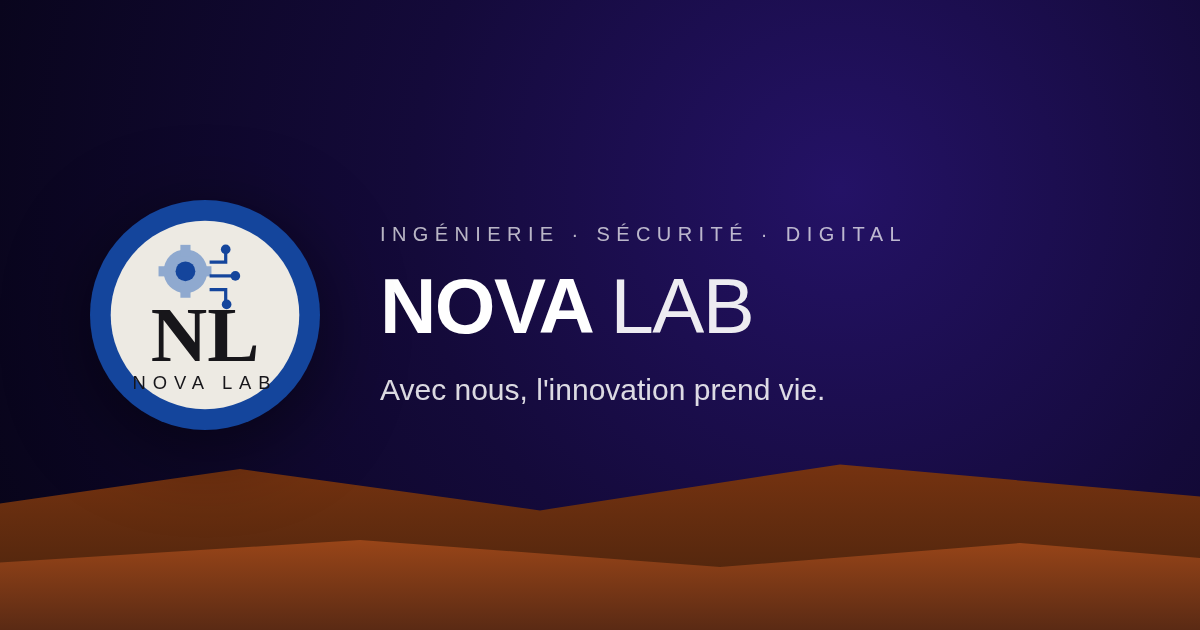
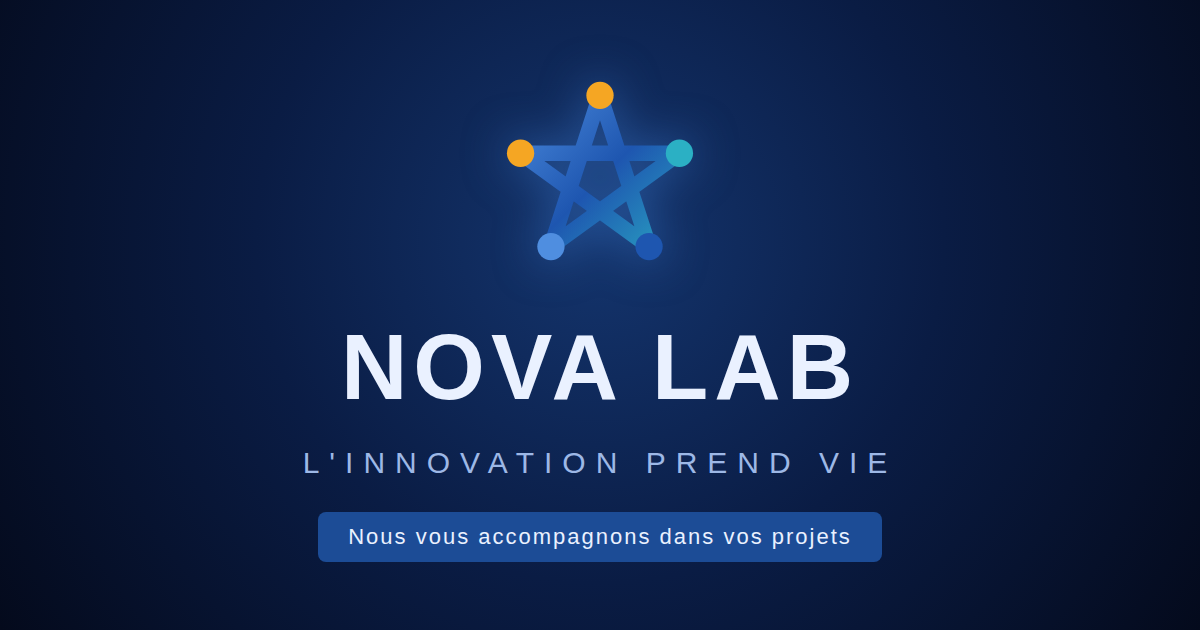
design: image d'apercu de lien (og:image) aux nouvelles couleurs + balises OG/Twitter
Claude-Session: https://claude.ai/code/session_018ATu5ZqXZjA13HDbdHN8jm

diff --git a/public/index.html b/public/index.html
@@ -5,6 +5,15 @@
 <link rel="icon" type="image/svg+xml" href="/logo.svg">
 <title>NOVA LAB — Avec nous, l'innovation prend vie</title>
 <meta name="viewport" content="width=device-width, initial-scale=1">
+<meta name="description" content="Nova Lab conçoit vos infrastructures, sécurise vos systèmes et développe vos applications. L'innovation prend vie.">
+<!-- Aperçu du lien (WhatsApp, Facebook, X…) -->
+<meta property="og:type" content="website">
+<meta property="og:title" content="NOVA LAB — L'innovation prend vie">
+<meta property="og:description" content="Nous vous accompagnons dans vos projets : réseau, sécurité, développement et design.">
+<meta property="og:image" content="/og.png">
+<meta name="twitter:card" content="summary_large_image">
+<meta name="twitter:title" content="NOVA LAB — L'innovation prend vie">
+<meta name="twitter:image" content="/og.png">
 <style>
   :root{
     --night:#070b1e;
